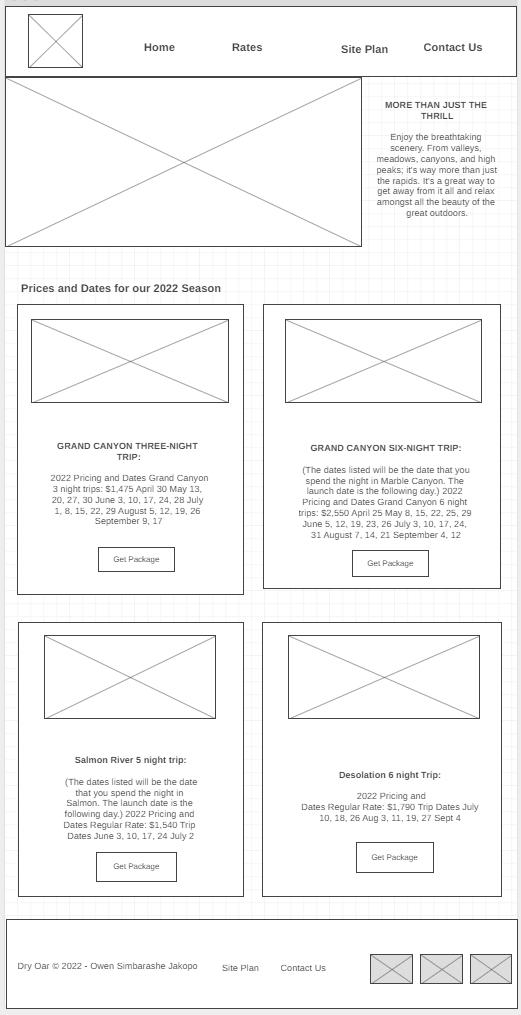
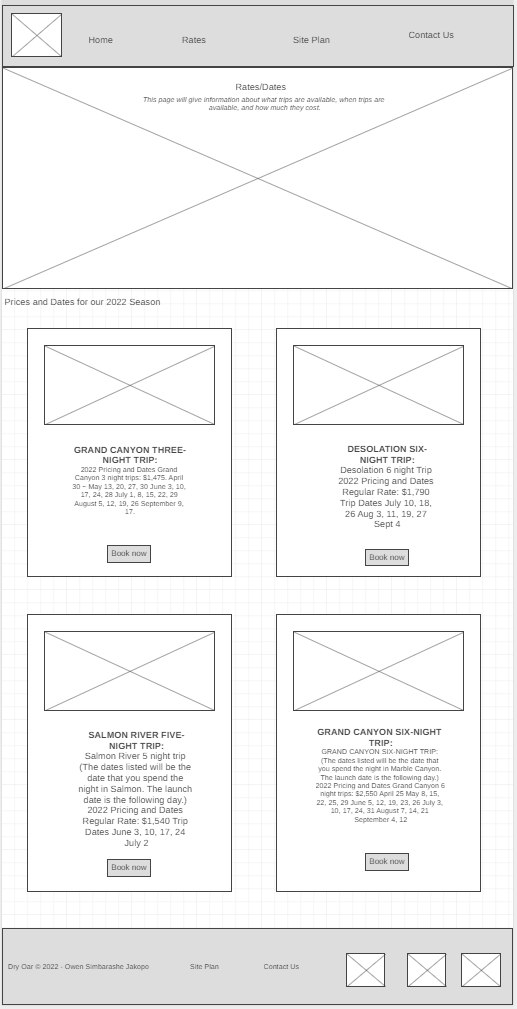
Added the rates page

diff --git a/wwr/rates.html b/wwr/rates.html
@@ -1,0 +1,89 @@
+<!DOCTYPE html>
+<html lang="en">
+
+<head>
+    <meta charset="UTF-8">
+    <meta http-equiv="X-UA-Compatible" content="IE=edge">
+    <meta name="viewport" content="width=device-width, initial-scale=1.0">
+    <title>Rates</title>
+    <link rel="stylesheet" type="text/css" href="styles/style.css">
+</head>
+
+<body>
+    <div id="content">
+        <header>
+            <a id="logo_link" href="index.html">
+                <img class="logo" alt="Dry Oar Logo" src="images/logo-transparent.png">
+            </a>
+            <nav>
+                <a href="index.html">Home</a>
+                <a href="rates.html" target="_blank">Rates</a>
+                <a href="site-plan-rafting.html" target="_blank">Site Plan</a>
+                <a href="contactus.html" target="_blank">Contact Us</a>
+            </nav>
+        </header>
+        <div id="hero">
+            <div id="hero-box">
+                <img id="hero-img" src="images/rates/rafting16_1024.jpg" alt="People enjoying white water rafting">
+            </div>
+            <section id="hero-msg">
+                <h1 class="home-title">Rates/Dates</h1>
+                <h4>This page will give information about what trips are available, when trips are available, and how much they cost.</h4>
+            </section>
+          </div>
+          <div></div>
+          <h2>Prices and Dates for our 2022 Season</h2>
+          <main class="home-grid">
+            <section class="grand-card">
+                <img class="card-img" src="images/rates/rafting21_600.png" alt="river in forest">
+                <h2>GRAND CANYON THREE-NIGHT TRIP:</h2>
+                <p>2022 Pricing and Dates Grand Canyon 3 night trips: $1,475. April 30 ~ May 13, 20, 27, 30 June 3, 10, 17, 24, 28 July 1, 8, 15, 22, 29 August 5, 12, 19, 26 September 9, 17.</p>
+                <div class="button-box">
+                    <a class="book" href="rates.html" target="_blank">Book Now</a>
+                </div>
+            </section>
+            <section class="desolation-card">
+                <img class="card-img" src="images/rates/rafting59_600.jpg" alt="tent in moumtains">
+                <h2>DESOLATION SIX-NIGHT TRIP:</h2>
+                <p>Desolation 6 night Trip 2022 Pricing and Dates Regular Rate: $1,790 Trip Dates July 10, 18, 26 Aug 3, 11, 19, 27 Sept 4</p>
+                <div class="button-box">
+                    <a class="book" href="rates.html" target="_blank">Book Now</a>
+                </div>
+            </section>
+        </main>
+
+        <main class="home-grid">
+            <section class="salmon-card">
+                <img class="card-img" src="images/rates/rafting64_600.jpg" alt="river in forest">
+                <h2>SALMON RIVER FIVE-NIGHT TRIP:</h2>
+                <p>Salmon River 5 night trip (The dates listed will be the date that you spend the night in Salmon. The launch date is the following day.) 2022 Pricing and Dates Regular Rate: $1,540 Trip Dates June 3, 10, 17, 24 July 2</p>
+                <div class="button-box">
+                    <a class="book" href="rates.html" target="_blank">Book Now</a>
+                </div>
+            </section>
+            <section class="grand2-card">
+                <img class="card-img" src="images/rates/rafting7_600.jpg" alt="tent in moumtains">
+                <h2>GRAND CANYON SIX-NIGHT TRIP:</h2>
+                <p>GRAND CANYON SIX-NIGHT TRIP: (The dates listed will be the date that you spend the night in Marble Canyon. The launch date is the following day.) 2022 Pricing and Dates Grand Canyon 6 night trips: $2,550 April 25 May 8, 15, 22, 25, 29 June 5, 12, 19, 23, 26 July 3, 10, 17, 24, 31 August 7, 14, 21 September 4, 12</p>
+                <div class="button-box">
+                    <a class="book" href="rates.html" target="_blank">Book Now</a>
+                </div>
+            </section>
+        </main>
+
+
+        <footer>
+            <p>Dry Oar &copy; 2022 - Owen Simbarashe Jakopo</p>
+            <p><a href="site-plan-rafting.html" target="_blank">Site Plan</a></p>
+            <p><a href="contactus.html" target="_blank">Contact Us</a></p>
+            <div class="social">
+                <a href="https://facebook.com" target="_blank"><img src="images/facebook.png" alt="fb icon"></a>
+                <a href="https://twitter.com" target="_blank"><img src="images/twitter.png" alt="twitter icon"></a>
+                <a href="https://instagram.com" target="_blank"><img src="images/instagram.png"
+                        alt="instagram icon"></a>
+            </div>
+        </footer>
+    </div>
+</body>
+
+</html>

diff --git a/thehistory/site-plan.html b/thehistory/site-plan.html
@@ -175,7 +175,7 @@
       <p>
         The History of the members of the Church of Jesus Christ of Latter-day Saints.
         </p>
-        <p>My name is owen Simbarashe Jakopo, I am from Zimbabwe and I am currently staying in Chinhoyi, in mashonaland west. I am a student at BYUi, enrolled for an online degree.I am a member of the Church of Jesus Christ of Latter day saints, I served as a full time missionary for the church for two years and during this time of service, I found great stories of sacrifice, dedication, and faith in the Lord Jesus Christ which helped me strengthen my own testimony. That is exactly what this site is for, for we want to share with the world, real life stories, experiences and testimonies of, but not limited to the members of the Church of Jesus Christ of latter day saints in various parts of the world, both young and old, male or female. Imagine what your own story of faith can do to others out there. Send us an email with your story, and we will share it with world for if these stories are not recorded, they never happened! The History of the members of the Church of Jesus Christ of Latter day saints, our stories, our testimonies, our greatest treasures!</p>
+        <p>My name is owen Simbarashe Jakopo, I am from Zimbabwe and I am currently staying in Chinhoyi, in mashonaland west. I am a student at BYUi, enrolled for an online degree. I am a member of the Church of Jesus Christ of Latter day saints, I served as a full time missionary for the church for two years and during this time of service, I found great stories of sacrifice, dedication, and faith in the Lord Jesus Christ which helped me strengthen my own testimony. That is exactly what this site is for, for we want to share with the world, real life stories, experiences and testimonies of, but not limited to the members of the Church of Jesus Christ of latter day saints in various parts of the world, both young and old, male or female. Imagine what your own story of faith can do to others out there. Send us an email with your story, and we will share it with world for if these stories are not recorded, they never happened! The History of the members of the Church of Jesus Christ of Latter day saints, our stories, our testimonies, our greatest treasures!</p>
         <p>
           The stories I heard, that were shared with me during my mission insipred this website. This site does not talk about the history of the Church of Jesus Christ of Latter-day saints or any other church. What it does is, it contains the stories of the members, and many other non-members as well. It's pursose is to be a friend, offering comfort to they that cry, providing answers to those that seek, giving hope to many that stand in need of such. We are confident that the people that will visit our site will want to see more, or stay because ours are real lived stories and experiences. Send us your story here and we will share it with world for you. Write us an email with your story, you may also add an image of yourself. If your story is recorded, do sent us the video or the audio file. We look forward to working with you.
       </p>

diff --git a/challenges/week09.html b/challenges/week09.html
@@ -1,0 +1,33 @@
+<!DOCTYPE html>
+<html lang="en">
+<head>
+    <meta charset="UTF-8">
+    <meta http-equiv="X-UA-Compatible" content="IE=edge">
+    <meta name="viewport" content="width=device-width, initial-scale=1.0">
+    <title>Week 9 Challenge</title>
+    <link rel="stylesheet" href="styles/week09.css" type="text/css">
+</head>
+<body>
+    <div class="container">
+        <div class="pic">
+            <img src="week09_image/w09_ice_img.jpg">
+            <p>3 weeks ago</p>
+            <h1>POST THREE</h1>
+            <p>Lorem ipsum dolor sit amet, consectetur adipiscing elit, sed do eiusmod tempor incididunt ut labore et dolore magna aliqua. Ut enim ad minim veniam, quis nostrud exercitation ullamco laboris nisi ut aliquip ex ea commodo consequat. Duis aute irure dolor in reprehenderit in voluptate velit esse cillum dolore eu fugiat nulla pariatur. Excepteur sint occaecat cupidatat non proident, sunt in culpa qui officia deserunt mollit anim id est laborum.</p>
+        </div>
+        <div class="read">
+            <h2>5m</h2>
+            <p>Read</p>
+        </div>
+        <div class="views">
+            <h2>2031</h2>
+            <p>Views</p>
+        </div>
+        <div class="comments">
+            <h2>15</h2>
+            <p>Comments</p>
+        </div>
+        </div>
+    
+</body>
+</html>

diff --git a/challenges/styles/week09.css b/challenges/styles/week09.css
@@ -1,0 +1,52 @@
+body {
+    max-width: 50%;
+    margin: 0 auto;
+    background-color: #000;
+}
+.container {
+    width: 100%;
+    display: grid;
+    grid-template-columns: 1fr 1fr 1fr;
+    background-color: white;
+    justify-content: center;
+    justify-items: center;
+    border: 1px solid grey;
+    border-radius: 5%;
+}
+.pic {
+    width: 100%;
+    grid-column: 1/3;
+    grid-row: 1/2;
+    justify-self: center;
+}
+.read {
+    background-color: blue;
+    width: 100%;
+    grid-column: 1/2;
+    grid-row: 3/5;
+    justify-self: center;
+    border: 1px solid black;
+    color: white;
+    border: 1px solid grey;
+}
+.views {
+    background-color: blue;
+    width: 100%;
+    grid-column: 2/3;
+    grid-row: 3/5;
+    justify-self: center;
+    color: white;
+    border: 1px solid grey;
+}
+.comments {
+    background-color: blue;
+    width: 100%;
+    grid-column: 3/5;
+    grid-row: 3/5;
+    justify-self: center;
+    color: white;
+    border: 1px solid grey;
+}
+h1, h2, p {
+    text-align: center;
+}

diff --git a/wwr/styles/style.css b/wwr/styles/style.css
@@ -233,6 +233,38 @@ h2 {
     margin: 0;
 }
 
+/*---Rates CSS here---*/
+.grand-card {
+    margin: 200px 0;
+    grid-column: 1/5;
+    grid-row: 1/3;
+    padding: 50px;
+    border: 2px solid #fb8500;
+}
+.grand2-card {
+    margin: 200px 0;
+    grid-column: 6/10;
+    grid-row: 2/3;
+    padding: 50px;
+    border: 2px solid #fb8500;
+}
+
+.desolation-card {
+    margin: 200px 0;
+    grid-column: 6/10;
+    grid-row: 1/2;
+    padding: 50px;
+    border: 2px solid #fb8500;
+}
+
+.salmon-card {
+    margin: 200px 0;
+    grid-column: 1/5;
+    grid-row: 2/3;
+    padding: 50px;
+    border: 2px solid #fb8500;
+}
+
 
 
 @media screen and (max-width: 900px) {

diff --git a/wwr/index.html b/wwr/index.html
@@ -17,7 +17,7 @@
             </a>
             <nav>
                 <a href="index.html">Home</a>
-                <a href="#">Page 2</a>
+                <a href="rates.html">Rates</a>
                 <a href="#site-plan-rafting.html">Site Plan</a>
                 <a href="#contactus.html">Contact Us</a>
             </nav>
